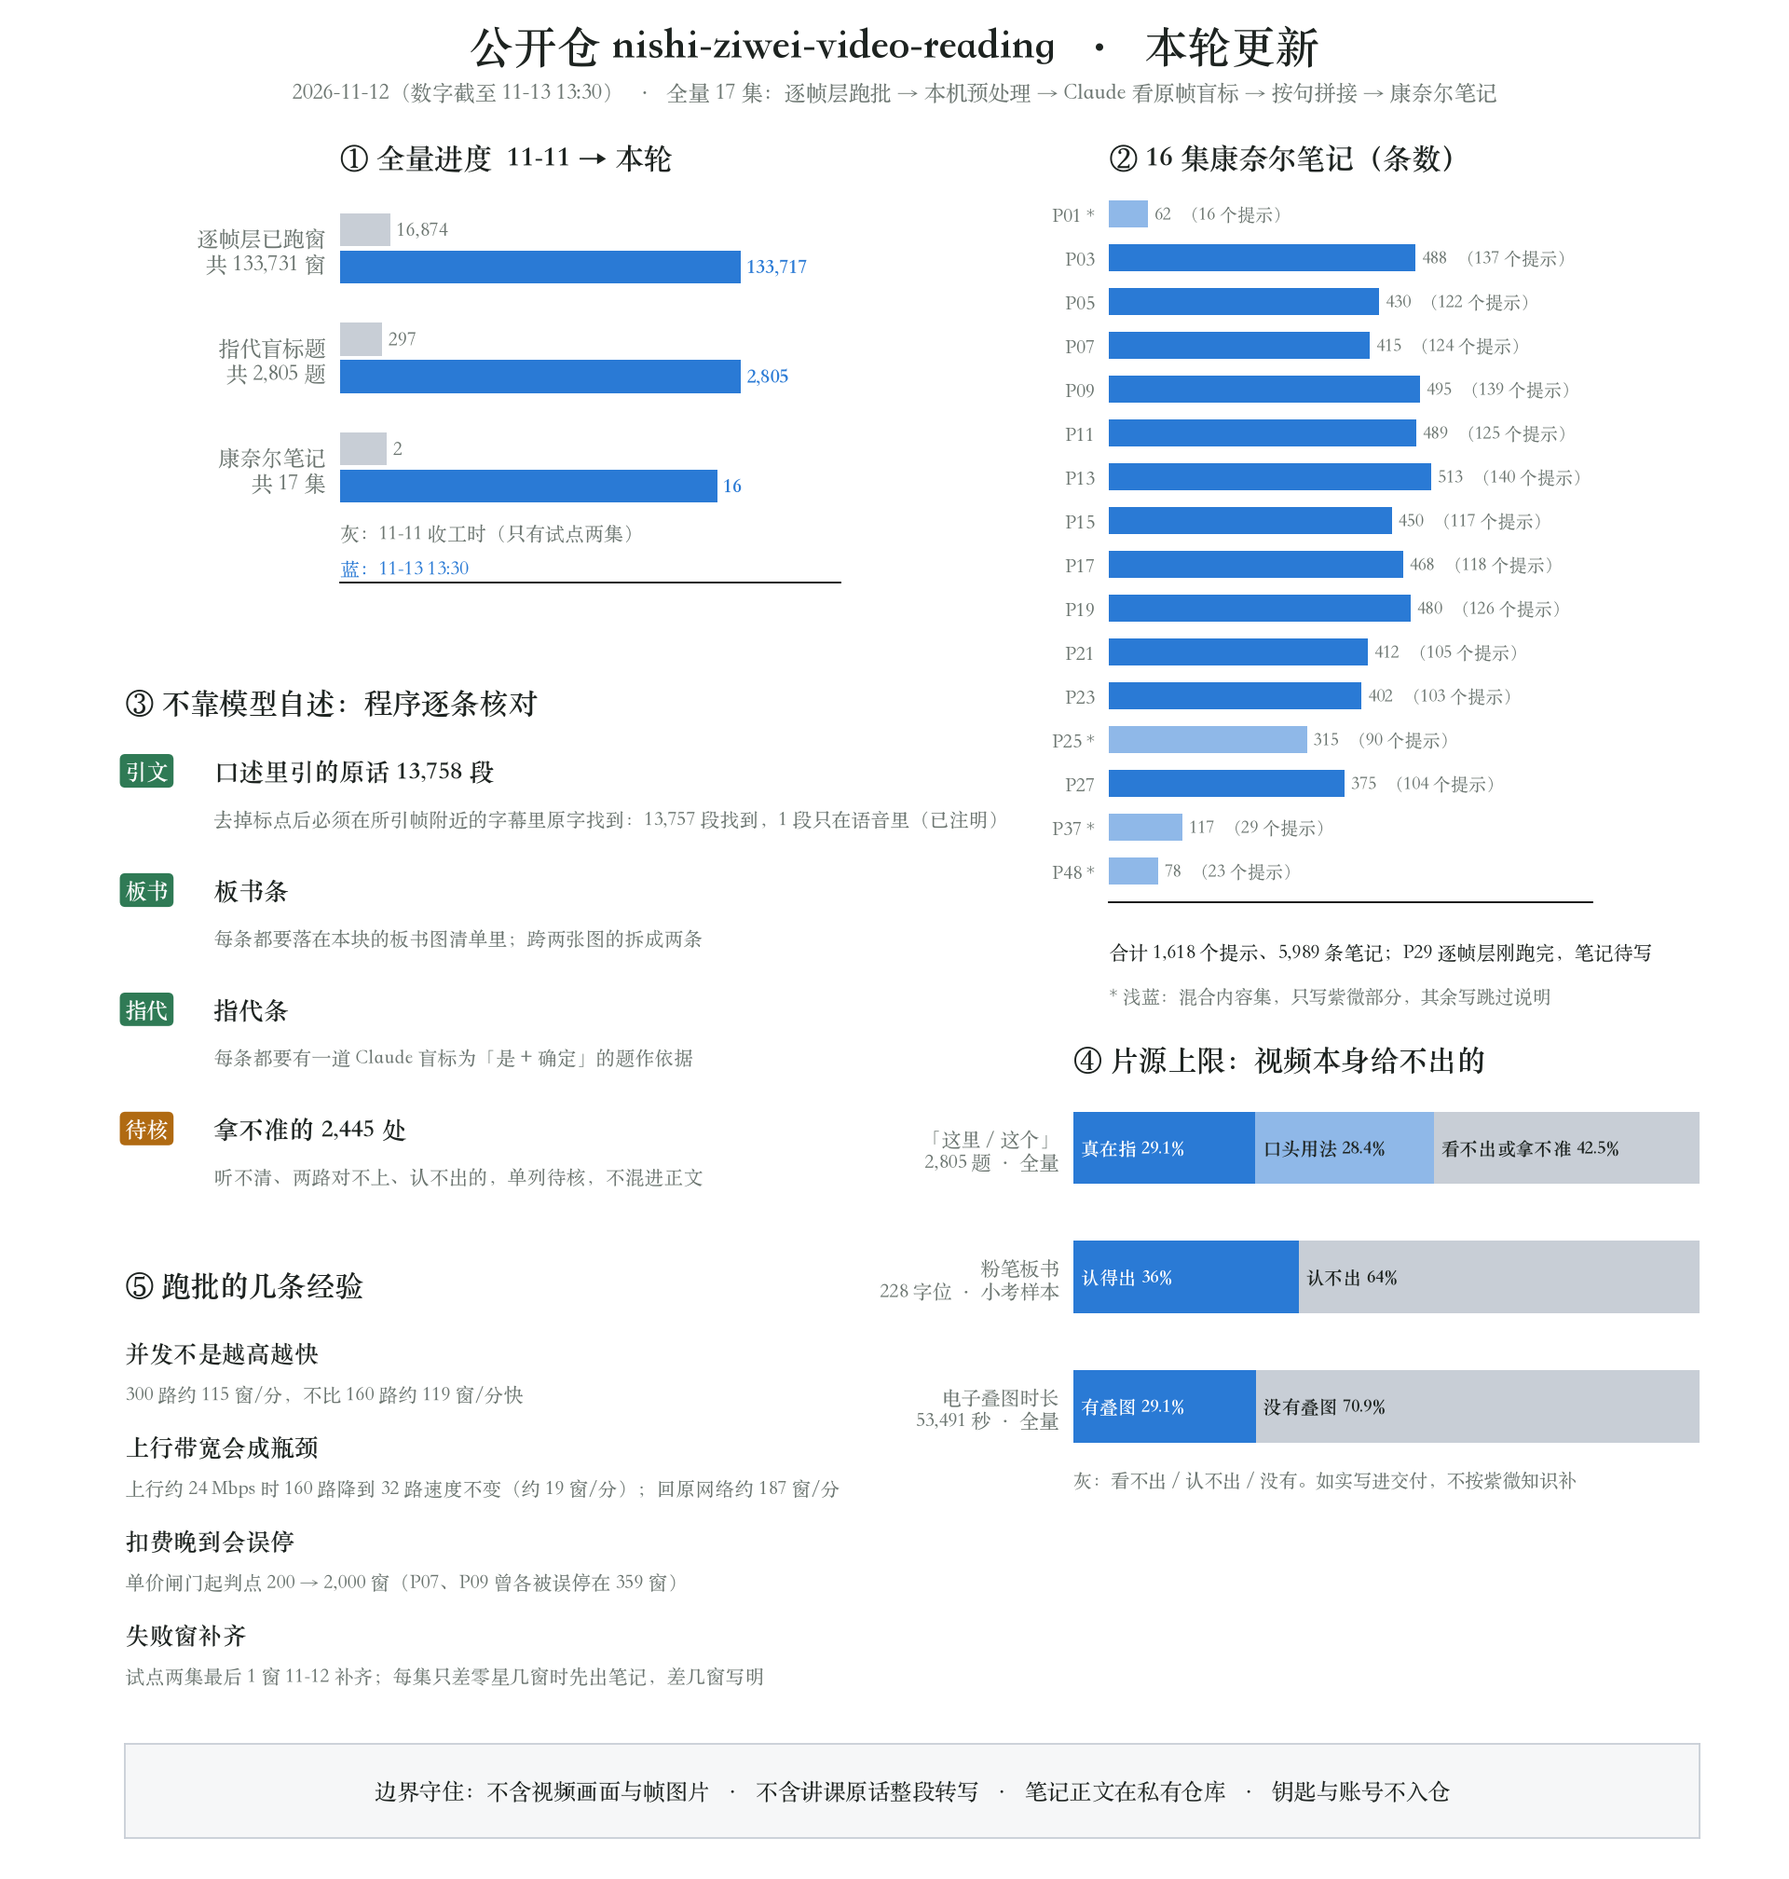
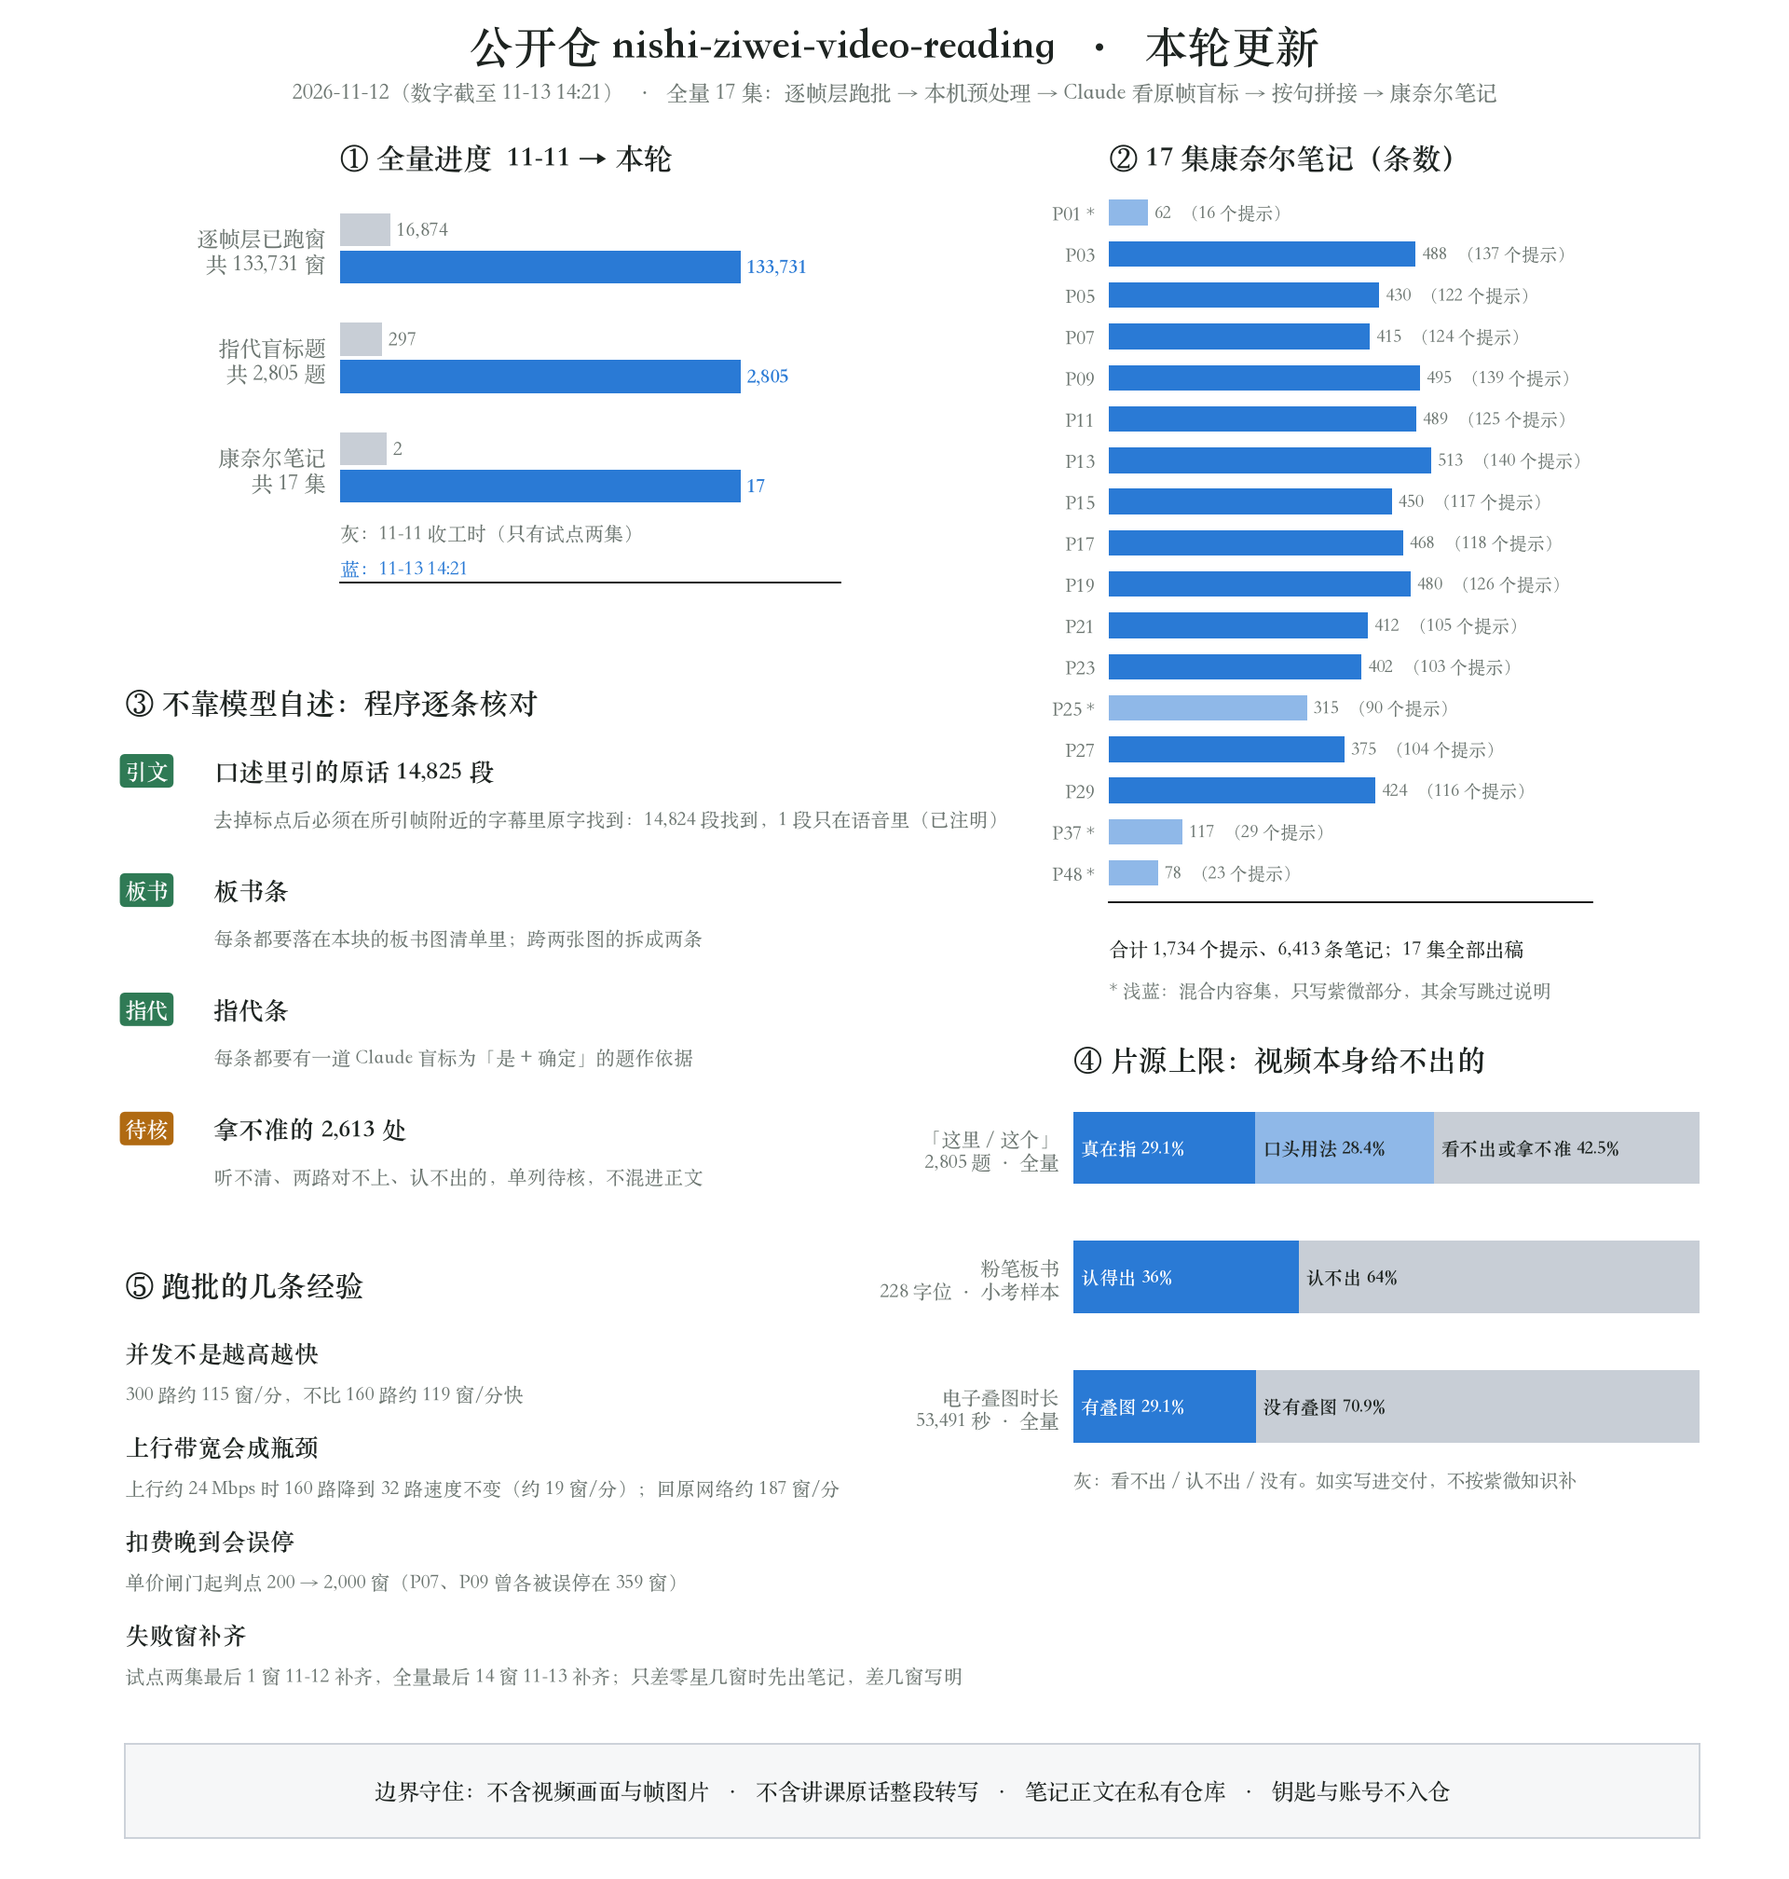
进度同步：17 集逐帧层 11-13 13:48 全部跑满、17 集康奈尔笔记全部出稿
- README「本轮更新」第 1、2 条与进度表：逐帧层 133,731 / 133,731 窗；笔记 17 / 17 集（1,734 个提示 / 6,413 条，引文 14,825 段、原字找到 14,824 段，待核 2,613 处）
- 工作记录：逐帧层收尾与 P29 出稿两处更新
- 总览图与出图脚本：数字截至 11-13 14:21，笔记条形图补 P29

diff --git a/scripts/图/update_20261112.py b/scripts/图/update_20261112.py
@@ -2,7 +2,7 @@
 样式同 update_20261108.py：宋体，改前灰 #c8ced6 / 改后蓝 #2a7ad5，五格 + 底部边界条。
 宋体缺 ✓ ✗ ¥ 等字形，图里一律用文字代替。数字全部来自 docs/工作记录.md 与 README「片源上限」的实跑统计：
 - 逐帧层窗数：full_status.py 的计数（试点 P17、P05 + 全量 15 集，每窗 12 帧）；
-- 笔记：各集运行记录的「规模」「校验」两行（16 集，P29 未写）；
+- 笔记：各集运行记录的「规模」「校验」两行（17 集）；
 - 指代：17 集全部盲标结果（2,805 道题）；板书：小考样本 228 个字位；叠图：17 集每秒 1 帧打分。
 """
 import sys
@@ -17,16 +17,17 @@ plt.rcParams['font.family'] = 'Songti SC'
 GREY, BLUE, LIGHT, INK, MUTED, GREEN, RED, ORANGE = '#c8ced6', '#2a7ad5', '#8fb8e8', '#1d2320', '#6b7570', '#2f7a55', '#b23a2e', '#b06a12'
 
 # ---- 快照（数字截至 SNAP_TIME）----
-SNAP_TIME = '11-13 13:30'
+SNAP_TIME = '11-13 14:21'
 WIN_TOTAL = 133731                   # 17 集总窗数
 WIN_BEFORE = 16874                   # 11-11 收工时：P17 8,133 + P05 8,741
-WIN_NOW = 133717                     # 只剩 5 集共 14 个反复失败的窗
+WIN_NOW = 133731                     # 11-13 13:48 全部跑满
 Q_TOTAL, Q_BEFORE = 2805, 297        # 指代题：17 集共 2,805 道；11-11 时只有试点 P17 163 + P05 134
 NOTES = [  # 集, 提示, 条, 是否混合内容集（只写紫微部分）
     ('P01', 16, 62, True), ('P03', 137, 488, False), ('P05', 122, 430, False), ('P07', 124, 415, False),
     ('P09', 139, 495, False), ('P11', 125, 489, False), ('P13', 140, 513, False), ('P15', 117, 450, False),
     ('P17', 118, 468, False), ('P19', 126, 480, False), ('P21', 105, 412, False), ('P23', 103, 402, False),
-    ('P25', 90, 315, True), ('P27', 104, 375, False), ('P37', 29, 117, True), ('P48', 23, 78, True)]
+    ('P25', 90, 315, True), ('P27', 104, 375, False), ('P29', 116, 424, False), ('P37', 29, 117, True),
+    ('P48', 23, 78, True)]
 
 fig = plt.figure(figsize=(12, 12.6), dpi=160)
 fig.patch.set_facecolor('white')
@@ -62,9 +63,9 @@ ax.set_xlim(0, 1.25); ax.set_ylim(-1.05, 2.55); ax.set_xticks([]); clean(ax)
 ax.text(0, -0.6, '灰：11-11 收工时（只有试点两集）', color=MUTED, fontsize=9.5, va='center')
 ax.text(0, -0.92, f'蓝：{SNAP_TIME}', color=BLUE, fontsize=9.5, va='center')
 
-# ② 16 集笔记条数
+# ② 17 集笔记条数
 ax = fig.add_axes([0.62, 0.52, 0.27, 0.38])
-panel_title(ax, '② 16 集康奈尔笔记（条数）')
+panel_title(ax, '② 17 集康奈尔笔记（条数）')
 m = max(n[2] for n in NOTES)
 for i, (ep, cue, cnt, mixed) in enumerate(NOTES):
     y = len(NOTES) - 1 - i
@@ -72,16 +73,16 @@ for i, (ep, cue, cnt, mixed) in enumerate(NOTES):
     ax.text(cnt / m + 0.02, y, f'{cnt}  （{cue} 个提示）', va='center', fontsize=8.6, color=MUTED)
 ax.set_yticks(range(len(NOTES))); ax.set_yticklabels([n[0] + (' *' if n[3] else '') for n in NOTES][::-1], fontsize=9.6, color=INK)
 ax.set_xlim(0, 1.5); ax.set_ylim(-0.7, len(NOTES) - 0.4); ax.set_xticks([]); clean(ax)
-ax.text(0, -2.0, '合计 1,618 个提示、5,989 条笔记；P29 逐帧层刚跑完，笔记待写', fontsize=9.5, color=INK)
+ax.text(0, -2.0, '合计 1,734 个提示、6,413 条笔记；17 集全部出稿', fontsize=9.5, color=INK)
 ax.text(0, -3.0, '* 浅蓝：混合内容集，只写紫微部分，其余写跳过说明', fontsize=9.2, color=MUTED)
 
 # ③ 程序逐条核对
 ax = fig.add_axes([0.07, 0.34, 0.45, 0.27]); ax.axis('off')
 panel_title(ax, '③ 不靠模型自述：程序逐条核对')
-items = [('引文', GREEN, '口述里引的原话 13,758 段', '去掉标点后必须在所引帧附近的字幕里原字找到：13,757 段找到，1 段只在语音里（已注明）'),
+items = [('引文', GREEN, '口述里引的原话 14,825 段', '去掉标点后必须在所引帧附近的字幕里原字找到：14,824 段找到，1 段只在语音里（已注明）'),
          ('板书', GREEN, '板书条', '每条都要落在本块的板书图清单里；跨两张图的拆成两条'),
          ('指代', GREEN, '指代条', '每条都要有一道 Claude 盲标为「是 + 确定」的题作依据'),
-         ('待核', ORANGE, '拿不准的 2,445 处', '听不清、两路对不上、认不出的，单列待核，不混进正文')]
+         ('待核', ORANGE, '拿不准的 2,613 处', '听不清、两路对不上、认不出的，单列待核，不混进正文')]
 for i, (mk, col, head, body) in enumerate(items):
     y = 0.88 - i * 0.235
     ax.text(0.0, y + 0.045, mk, fontsize=10.5, color='white', fontweight='bold', va='center', bbox=dict(boxstyle='round,pad=0.25', fc=col, ec='none'))
@@ -114,7 +115,7 @@ panel_title(ax, '⑤ 跑批的几条经验')
 lessons = [('并发不是越高越快', '300 路约 115 窗/分，不比 160 路约 119 窗/分快'),
            ('上行带宽会成瓶颈', '上行约 24 Mbps 时 160 路降到 32 路速度不变（约 19 窗/分）；回原网络约 187 窗/分'),
            ('扣费晚到会误停', '单价闸门起判点 200 → 2,000 窗（P07、P09 曾各被误停在 359 窗）'),
-           ('失败窗补齐', '试点两集最后 1 窗 11-12 补齐；每集只差零星几窗时先出笔记，差几窗写明')]
+           ('失败窗补齐', '试点两集最后 1 窗 11-12 补齐，全量最后 14 窗 11-13 补齐；只差零星几窗时先出笔记，差几窗写明')]
 for i, (k, v) in enumerate(lessons):
     y = 0.86 - i * 0.25
     ax.text(0.0, y + 0.04, k, fontsize=11.5, color=INK, fontweight='bold', va='center')

diff --git a/docs/工作记录.md b/docs/工作记录.md
@@ -121,7 +121,7 @@
 - **上行带宽成了瓶颈**：11-12 傍晚暂停约 50 分钟，电脑换到上行约 24 Mbps 的网络后续跑。160 路把上行吃满，还把同时在跑的指代盲标连接挤断 6 次；19:53 降到 32 路，每分钟窗数基本不变（吞吐由上行决定），夜里只有约 18–23 窗/分，P27 整集约 19 窗/分。11-13 早上回到原来的网络、并发调回 160，P07 后半集约 187 窗/分。
 - **失败窗**：每集都会剩几个窗反复失败（如 P25 有 1 个窗连续两轮都失败），外层循环一轮轮补，连续 3 轮补不动就停下等人看。约定：一集差的窗不超过 10 个就可以开始出笔记，差几窗在运行记录里写明。
 - **试点两集的失败窗已补齐（11-12）**：P05 最后 1 窗 11-12 凌晨补上；P17 最后 1 窗当晚又失败一次（输出顶到 16,000 token 上限），11-12 早上改全天跑后重跑通过。两集 8,134 / 8,742 窗全满。
-- **截至 11-13 13:30**：133,731 窗跑了 133,717 窗，最后一集 P29 13:30 跑完；剩 P07 1、P25 1、P29 3、P37 6、P48 3 共 14 个窗反复失败，外层循环还在补。
+- **11-13 13:48 全部跑满**：13:30 时 133,731 窗跑了 133,717 窗（最后一集 P29 主体刚跑完），剩 P07 1、P25 1、P29 3、P37 6、P48 3 共 14 个窗反复失败；外层循环接着补，13:48 调度日志记「全部窗都已完成」，17 集 133,731 窗全满。
 
 ### 本机预处理（15 集，不调接口）
 
@@ -135,11 +135,11 @@
 - 全量没有用 Kimi 初判、也没用 Grok：小考里 Kimi 单独过不了线，Grok 只够当第三票；改由 Claude 看原帧逐题标，笔记里每条〔指代〕都要有一道标为「是 + 确定」的题作依据。
 - 结果见下面「片源上限」。
 
-### 康奈尔笔记：16 集出稿
+### 康奈尔笔记：17 集出稿
 
 - 流程照 11-11 定下的做：程序按句拼接 → 一个只读子代理通读全集、提议分段边界（`提示词/分段读手提示词.md`）→ 程序切块 → 每块一个 Claude Opus 子代理照材料写（`康奈尔写手提示词.md`）→ 程序逐条校验 → 一个只读子代理从各块候选里挑全集总结（`提示词/选总结读手提示词.md`）→ 出稿。拼句、切块、校验渲染三个脚本改成 17 集通用，每集的分段方案和标题写进配置文件。
 - **混合内容集只写紫微部分**：P01（《天纪》开讲第一课）只写「命相同参」一段；P37（六神）、P48（易经推命，标题照 B 站）只写讲星曜、宫位、四化、流月流日的几段；P25 中间插讲的小六壬掐指法一段跳过。跳过的段各写一份跳过说明、只列话题，不写成笔记。
-- **截至 11-13 13:30，16 集出稿**（P29 的逐帧层刚跑完，笔记待写）：11-12 出了 P01、P03、P11、P13、P15、P21、P19、P23，11-13 出了 P09、P27、P37、P07、P48、P25。连同试点两集合计 135 段、1,618 个提示、5,989 条笔记；〔口述〕里引的原话 13,758 段，13,757 段在字幕里原字找到（P05 有 1 段只在语音里，已注明）；拿不准的 2,445 处收在各段「待核」。
+- **11-13 14:20，17 集全部出稿**：11-12 出了 P01、P03、P11、P13、P15、P21、P19、P23，11-13 出了 P09、P27、P37、P07、P48、P25，最后一集 P29 等逐帧层 13:46 跑满后补写（9 段、116 个提示、424 条笔记）。连同试点两集合计 144 段、1,734 个提示、6,413 条笔记；〔口述〕里引的原话 14,825 段，14,824 段在字幕里原字找到（P05 有 1 段只在语音里，已注明）；拿不准的 2,613 处收在各段「待核」。
 - **初稿常见问题**（程序抓出、定稿已改）：把语音转写的写法放进了引号，而字幕原字不同——改成引号里只放字幕原字、语音写在括号外并记进待核；叠图条目里写了时间码——改成帧号；一条板书跨了两张板书图——对过原图拆成两条。
 - 笔记放在私有仓库；公开摘要版（倪师原话只引短句）等全部做完再整理。
 

diff --git a/README.md b/README.md
@@ -10,10 +10,10 @@
 
 ![本轮更新总览](docs/update-20261112.png)
 
-（数字截至 2026-11-13 13:30。）
+（数字截至 2026-11-13 14:21。）
 
-1. **全量开跑**：17 集逐帧层（DeepSeek，每窗 12 帧）共 133,731 窗，已跑 133,717 窗，只剩 5 集共 14 个反复失败的窗在补。试点两集原先各剩的 1 个失败窗，11-12 已补齐。
-2. **16 集康奈尔笔记出稿**：1,618 个提示、5,989 条笔记；〔口述〕里引的倪师原话 13,758 段，13,757 段在字幕里原字找到（剩 1 段只在语音里，已注明）；拿不准的 2,445 处单列「待核」，不混进正文。P29 的逐帧层 11-13 13:30 刚跑完，笔记待写。笔记先放私有仓库，公开摘要版另行整理。
+1. **全量跑完**：17 集逐帧层（DeepSeek，每窗 12 帧）共 133,731 窗，11-13 13:48 全部跑满（5 集里零星反复失败的 14 个窗已补齐）。试点两集原先各剩的 1 个失败窗，11-12 已补齐。
+2. **17 集康奈尔笔记出稿**：1,734 个提示、6,413 条笔记；〔口述〕里引的倪师原话 14,825 段，14,824 段在字幕里原字找到（剩 1 段只在语音里，已注明）；拿不准的 2,613 处单列「待核」，不混进正文。最后一集 P29 在逐帧层跑满后补写，11-13 14:20 出稿。笔记先放私有仓库，公开摘要版另行整理。
 3. **指代层改由 Claude 看原帧盲标**：17 集 2,805 道题全部标完。全量没有用 Kimi、Grok（这两家只在小考和重测里用过）。
 4. **写明片源上限**：「这里 / 这个」约四成看不出指哪（全量 2,805 题里 42.5%）；粉笔板书六成多认不出（小考样本 228 个字位里 64%）；最清楚的电子叠图只占全片 29.1% 时长（全量）。见下方[「片源上限」](#片源上限)。
 5. **跑批的几条经验**：并发不是越高越快（300 路不比 160 路快）；换到上行小的网络后，瓶颈在上传、降并发不减速；单价闸门要躲开上一集晚到的扣费。
@@ -85,8 +85,8 @@ flowchart TD
 | 试点两集（P17 + P05） | ✅ 康奈尔笔记两集完成：P17 118 个提示 / 468 条，P05 122 个提示 / 430 条；引的原话 1,949 段，1,948 段在字幕里原字找到。逐帧层两集各剩的 1 个失败窗 11-12 已补齐，两集全满 |
 | 全量：本机预处理（15 集） | ✅ 11-12 完成：苹果字幕参照轨、whisper 逐字语音、MediaPipe 姿态、指代出题 |
 | 全量：指代层盲标 | ✅ 17 集 2,805 道题，Claude 看原帧逐题标完 |
-| 全量：逐帧层（DeepSeek） | ⏳ 133,717 / 133,731 窗；最后一集 P29 13:30 跑完，剩 P07 1、P25 1、P29 3、P37 6、P48 3 共 14 个反复失败的窗在补 |
-| 全量：康奈尔笔记 | ⏳ 16 / 17 集出稿（1,618 个提示 / 5,989 条），P29 待写 |
+| 全量：逐帧层（DeepSeek） | ✅ 133,731 / 133,731 窗，11-13 13:48 全部跑满 |
+| 全量：康奈尔笔记 | ✅ 17 / 17 集出稿（1,734 个提示 / 6,413 条），笔记在私有仓库 |
 | 公开摘要版笔记 | 未做：全部完成后整理，倪师原话只引短句 |
 
 详细经过见 [`docs/工作记录.md`](docs/工作记录.md)。
